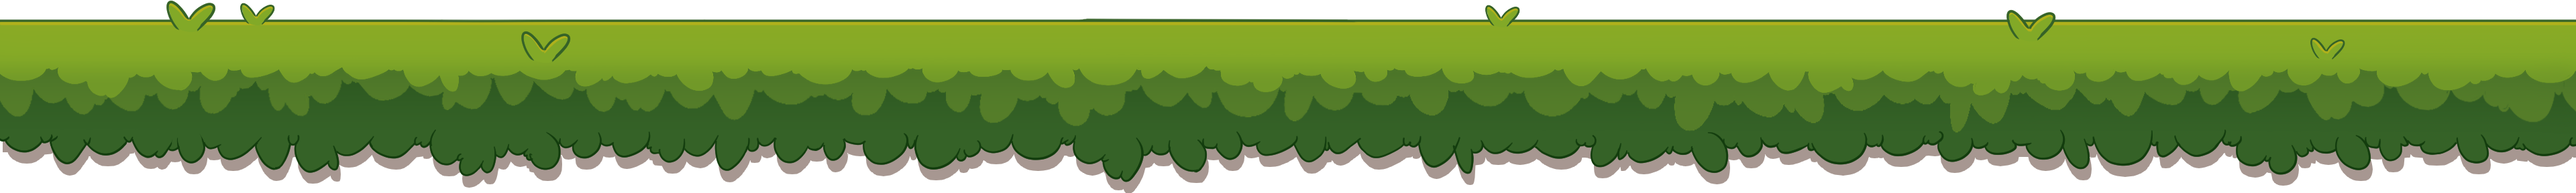
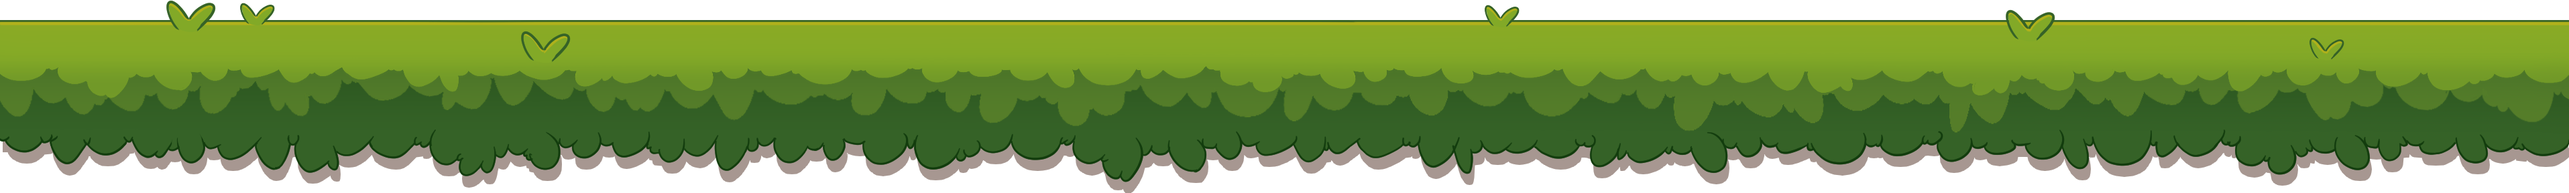
tunell

diff --git a/src/game/Tileworld.ts b/src/game/Tileworld.ts
@@ -78,6 +78,27 @@ const COL: Record<number, [number, number]> = {
   [T.IRON]:     [0x7a7a7a,   0xaaaaaa  ],
 }
 
+function mulRgb(hex: number, k: number): number {
+  const r = Math.min(255, Math.round(((hex >> 16) & 0xff) * k))
+  const g = Math.min(255, Math.round(((hex >> 8) & 0xff) * k))
+  const b = Math.min(255, Math.round((hex & 0xff) * k))
+  return (r << 16) | (g << 8) | b
+}
+
+/** Фон под выкопом, если нет текстур земли (как fallback в чанке). */
+const TUNNEL_BG_FALLBACK = mulRgb(COL[T.DIRT]![0], 0.58)
+
+/** Мир: покрытие под туннелем (как прежний `drawRect`). */
+const TUNNEL_BG_X = -500000
+const TUNNEL_BG_W = 1_000_000
+const TUNNEL_BG_H = 1_000_000
+/** Тёмный фон чанка вокруг выкопа (`darkBg`, маска). */
+const CHUNK_DARK_BG_COLOR = 0x5d3011
+
+/** Полупрозрачный тон поверх текстуры дна туннеля — цвет и альфа задаются отдельно. */
+const TUNNEL_FLOOR_TINT_COLOR = 0x000000
+const TUNNEL_FLOOR_TINT_ALPHA = 0.42
+
 function lcg(seed: number) {
   let s = seed >>> 0
   return () => { s = Math.imul(1664525, s) + 1013904223 >>> 0; return s / 0x100000000 }
@@ -437,9 +458,15 @@ export class TileWorld {
     this.overridesBuilt = false
   }
 
-  private bgLight:  PIXI.Graphics = new PIXI.Graphics()
-  private _bgLightAdded = false
-  private bgMinX = 99999; private bgMaxX = -99999
+  /** Подложка под выкопом: текстура земли (как верхний слой чанка) или запасной цвет. */
+  private bgLight: PIXI.Container = new PIXI.Container()
+  private _tunnelBgMode: 'earthTiles' | 'groundTiling' | 'colorFill' = 'colorFill'
+  /** Земля / заливка под выкопом; оверлей затемнения — поверх этого контейнера. */
+  private _tunnelBgContent = new PIXI.Container()
+  private _tunnelBgDim = new PIXI.Graphics()
+  private _tunnelBgTiles = new Map<string, PIXI.Sprite>()
+  private _tunnelBgGroundTiling: PIXI.TilingSprite | null = null
+  private _tunnelBgColorFill: PIXI.Graphics | null = null
 
   static grassTex:  PIXI.Texture | null = null
   static groundTex: PIXI.Texture | null = null
@@ -462,13 +489,21 @@ export class TileWorld {
     this.seed = seed
     this.totalRows = Number.MAX_SAFE_INTEGER
 
-    // Светлый фон — бесконечный, без маски
-    this.bgLight.beginFill(0x845D46)
-      .drawRect(-500000, 0, 1000000, 1000000)
-      .endFill()
     this.bgLight.zIndex = -10
     this.chunkContainer.sortableChildren = true
     bgContainer.addChild(this.bgLight)
+    this.bgLight.addChild(this._tunnelBgContent)
+    this._redrawTunnelBgDimOverlay()
+    this.bgLight.addChild(this._tunnelBgDim)
+    this.rebuildTunnelBgFromTextures()
+  }
+
+  private _redrawTunnelBgDimOverlay(): void {
+    this._tunnelBgDim.clear()
+    if (TUNNEL_FLOOR_TINT_ALPHA <= 0) return
+    this._tunnelBgDim.beginFill(TUNNEL_FLOOR_TINT_COLOR, TUNNEL_FLOOR_TINT_ALPHA)
+      .drawRect(TUNNEL_BG_X, 0, TUNNEL_BG_W, TUNNEL_BG_H)
+      .endFill()
   }
 
   /** Вариант earth1/2/3 для глобальной клетки: нет двух одинаковых у соседей слева/сверху */
@@ -513,6 +548,96 @@ export class TileWorld {
 
   showBg() { this.bgLight.visible = true  }
   hideBg()  { this.bgLight.visible = false }
+
+  /**
+   * Подложка туннеля: те же `earth1/2/3` / `groundTex`, что и слой земли в чанке.
+   * Вызвать после `TileWorld.loadGrassTex()`, если мир создали до резолва Promise.
+   */
+  rebuildTunnelBgFromTextures(): void {
+    for (const spr of this._tunnelBgTiles.values()) {
+      this._tunnelBgContent.removeChild(spr)
+      spr.destroy({ texture: false })
+    }
+    this._tunnelBgTiles.clear()
+    if (this._tunnelBgGroundTiling) {
+      this._tunnelBgContent.removeChild(this._tunnelBgGroundTiling)
+      this._tunnelBgGroundTiling.destroy()
+      this._tunnelBgGroundTiling = null
+    }
+    if (this._tunnelBgColorFill) {
+      this._tunnelBgContent.removeChild(this._tunnelBgColorFill)
+      this._tunnelBgColorFill.destroy()
+      this._tunnelBgColorFill = null
+    }
+
+    const hasEarth = TileWorld.earthTex.some(t => t != null)
+    if (hasEarth) {
+      this._tunnelBgMode = 'earthTiles'
+      return
+    }
+    if (TileWorld.groundTex) {
+      this._tunnelBgMode = 'groundTiling'
+      const tex = TileWorld.groundTex
+      const spr = new PIXI.TilingSprite(tex, TUNNEL_BG_W, TUNNEL_BG_H)
+      spr.x = TUNNEL_BG_X
+      spr.y = 0
+      spr.tileScale.set(TILE / tex.width, TILE / tex.height)
+      this._tunnelBgContent.addChild(spr)
+      this._tunnelBgGroundTiling = spr
+      return
+    }
+    this._tunnelBgMode = 'colorFill'
+    const g = new PIXI.Graphics()
+    g.beginFill(TUNNEL_BG_FALLBACK).drawRect(TUNNEL_BG_X, 0, TUNNEL_BG_W, TUNNEL_BG_H).endFill()
+    this._tunnelBgContent.addChild(g)
+    this._tunnelBgColorFill = g
+  }
+
+  private _syncTunnelBgEarthTiles(camX: number, camY: number, screenW: number, screenH: number): void {
+    if (this._tunnelBgMode !== 'earthTiles') return
+    const margin = TILE * 6
+    const wx0 = camX - margin
+    const wx1 = camX + screenW + margin
+    const wy0 = Math.max(0, camY - margin)
+    const wy1 = camY + screenH + margin
+    const gc0 = Math.floor(wx0 / TILE)
+    const gc1 = Math.floor(wx1 / TILE)
+    const gr0 = Math.floor(wy0 / TILE)
+    const gr1 = Math.floor(wy1 / TILE)
+
+    const needed = new Set<string>()
+    for (let gr = gr0; gr <= gr1; gr++) {
+      if (gr < 0) continue
+      for (let gc = gc0; gc <= gc1; gc++) {
+        needed.add(`${gc}_${gr}`)
+      }
+    }
+
+    for (const k of [...this._tunnelBgTiles.keys()]) {
+      if (!needed.has(k)) {
+        const spr = this._tunnelBgTiles.get(k)!
+        this._tunnelBgContent.removeChild(spr)
+        spr.destroy({ texture: false })
+        this._tunnelBgTiles.delete(k)
+      }
+    }
+
+    for (const k of needed) {
+      if (this._tunnelBgTiles.has(k)) continue
+      const [gc, gr] = k.split('_').map(Number) as [number, number]
+      const vi = this._pickEarthVariant(gc, gr)
+      const tex = TileWorld.earthTex[vi]
+      if (!tex) continue
+      const spr = new PIXI.Sprite(tex)
+      spr.width = TILE
+      spr.height = TILE
+      spr.x = gc * TILE
+      spr.y = gr * TILE
+      spr.roundPixels = true
+      this._tunnelBgContent.addChild(spr)
+      this._tunnelBgTiles.set(k, spr)
+    }
+  }
 
   // ── Scratch ────────────────────────────────────────────────────────────────
 
@@ -755,6 +880,8 @@ export class TileWorld {
         this.chunks.delete(key)
       }
     }
+
+    this._syncTunnelBgEarthTiles(camX, camY, screenW, screenH)
   }
 
   private _extendBg(_colMin:number, _colMax:number, _rowMin:number, _rowMax:number) {
@@ -833,9 +960,9 @@ export class TileWorld {
       bl.destroy()
     }
 
-    // Тёмный фон чанка (0x4E312B) — виден везде, скрывается в туннеле/пещере
+    // Тёмный фон чанка (`CHUNK_DARK_BG_COLOR`) — виден везде, скрывается в туннеле/пещере
     const darkBg = new PIXI.Graphics()
-    darkBg.beginFill(0x4E312B).drawRect(0, 0, CPW, CPH).endFill()
+    darkBg.beginFill(CHUNK_DARK_BG_COLOR).drawRect(0, 0, CPW, CPH).endFill()
     darkBg.mask = darkMaskSpr
 
     const lavaContainer = new PIXI.Container()
@@ -990,6 +1117,9 @@ export class TileWorld {
     this.brush.destroy(); this.line.destroy()
     this._scratchDb.destroy(); this._scratchWb.destroy(); this._scratchDl.destroy()
     this._caveGfx.destroy()
-    this.bgLight.destroy()
+    this._tunnelBgTiles.clear()
+    this._tunnelBgGroundTiling = null
+    this._tunnelBgColorFill = null
+    this.bgLight.destroy({ children: true })
   }
 }

diff --git a/src/game/WorldMap.ts b/src/game/WorldMap.ts
@@ -506,6 +506,23 @@ export function placeObstacles(
 ): SafeObject[] {
   const objects:  SafeObject[] = []
   const SPAWN_INTERVAL = TILE * GameConfig.spawn.decorIntervalTiles
+  const maxRow = Math.ceil((terminalY + TILE * 8) / TILE)
+
+  // ── Предпросчёт лавовых точек (используются и для анти-спавна декора, и для итогового спавна лавы) ──
+  const lavaSpots: Array<{ x: number; y: number; r: number; w: number; h: number }> = []
+  for (let tr = 10; tr <= maxRow; tr++) {
+    const wy = tr * TILE
+    const depth = tr % 200
+    const collectLava = (tc: number, scX: number, offX: number, scY: number, thresh: number, seed: number) => {
+      const wx = tc * TILE
+      if (caveNoise(tc * scX + offX, tr * scY, seed) <= thresh) return
+      const lavaR = TILE * 0.8
+      if (intersectsTunnel(wx, wy, lavaR, path, surfY, LAVA_MARGIN)) return
+      lavaSpots.push({ x: wx, y: wy, r: lavaR, w: TILE * 2, h: TILE * 2 })
+    }
+    if (depth >= 35  && depth <= 88)  for (let tc = -16; tc <= 16; tc++) collectLava(tc, 1.25, 50, 0.78, 0.56, worldSeed ^ 0xFF00)
+    if (depth >= 118 && depth <= 192) for (let tc = -16; tc <= 16; tc++) collectLava(tc, 1.08, 30, 0.88, 0.52, worldSeed ^ 0xFF11)
+  }
 
   // ── Декорации ──────────────────────────────────────────────────────────────
   const placed: Array<{ x: number; y: number; r: number }> = []
@@ -519,12 +536,18 @@ export function placeObstacles(
 
   const tryDecor = (type: EventType, yRow: number) => {
     const sz = type === 'HOME' ? DECOR_HOME_PLACE_SZ : (ITEM_SZ[type] ?? 60)
-    const r  = sz / 2
+    // Для квадратного HOME используем описанную окружность, иначе углы дома
+    // могут «въезжать» в коридор при круговой проверке intersectsTunnel.
+    const r  = type === 'HOME' ? (sz * Math.SQRT1_2) : (sz / 2)
     const ty = type.charCodeAt(0) ?? 0
 
     const tryPlace = (worldX: number, worldY: number, tunnelMargin = DECOR_TUNNEL_PLACE_MARGIN): boolean => {
       const x = Math.max(decorSpawnMinX, Math.min(decorSpawnMaxX, worldX))
       if (intersectsTunnel(x, worldY, r, path, surfY, tunnelMargin)) return false
+      // Не ставим декор в зонах будущей лавы.
+      for (const lv of lavaSpots) {
+        if (Math.hypot(x - lv.x, worldY - lv.y) < r + lv.r) return false
+      }
       const minD = r + decorClearance
       for (const p of placed) {
         if (Math.hypot(x - p.x, worldY - p.y) < minD + p.r) return false
@@ -691,19 +714,8 @@ export function placeObstacles(
   }
 
   // ── Лава (только вне туннеля) ─────────────────────────────────────────────
-  const maxRow = Math.ceil((terminalY + TILE * 8) / TILE)
-  for (let tr = 10; tr <= maxRow; tr++) {
-    const wy    = tr * TILE
-    const depth = tr % 200
-    const checkLava = (tc: number, scX: number, offX: number, scY: number, thresh: number, seed: number) => {
-      const wx = tc * TILE
-      if (caveNoise(tc * scX + offX, tr * scY, seed) <= thresh) return
-      const lavaR = TILE * 0.8
-      if (intersectsTunnel(wx, wy, lavaR, path, surfY, LAVA_MARGIN)) return
-      objects.push({ x: wx, y: wy, w: TILE * 2, h: TILE * 2, kind: 'lava' })
-    }
-    if (depth >= 35  && depth <= 88)  for (let tc = -16; tc <= 16; tc++) checkLava(tc, 1.25, 50, 0.78, 0.56, worldSeed ^ 0xFF00)
-    if (depth >= 118 && depth <= 192) for (let tc = -16; tc <= 16; tc++) checkLava(tc, 1.08, 30, 0.88, 0.52, worldSeed ^ 0xFF11)
+  for (const lv of lavaSpots) {
+    objects.push({ x: lv.x, y: lv.y, w: lv.w, h: lv.h, kind: 'lava' })
   }
 
   // ── Пещеры (только вне туннеля) ───────────────────────────────────────────

diff --git a/src/game/GameRenderer.ts b/src/game/GameRenderer.ts
@@ -555,7 +555,7 @@ const TREE_X_RUN_DX: readonly [number, number, number] = [-480, 180, 520]
 
 export class GameRenderer {
   app:PIXI.Application
-  /** Коричневый подложечный фон (только bgLight из TileWorld). */
+  /** Подложка под выкопом (текстура земли / цвет из TileWorld.bgLight). */
   private worldBgLayer:   PIXI.Container
   /** Чанки травы/земли и лава — поверх неба и деревьев. */
   private worldChunkLayer: PIXI.Container
@@ -955,7 +955,9 @@ export class GameRenderer {
     })()
     // Соль на каждый запуск раунда: даже при одинаковых events маршрут/декор не повторяются.
     this.worldSeed = (baseSeed ^ randSalt) >>> 0
-    TileWorld.loadGrassTex()
+    TileWorld.loadGrassTex().then(() => {
+      this.tileWorld?.rebuildTunnelBgFromTextures()
+    })
     this.tileWorld= new TileWorld(this.worldBgLayer, this.worldChunkLayer, this.worldSeed)
     this.tileWorld.renderer=this.app.renderer as PIXI.Renderer
     this.tileWorld.initMasks()
